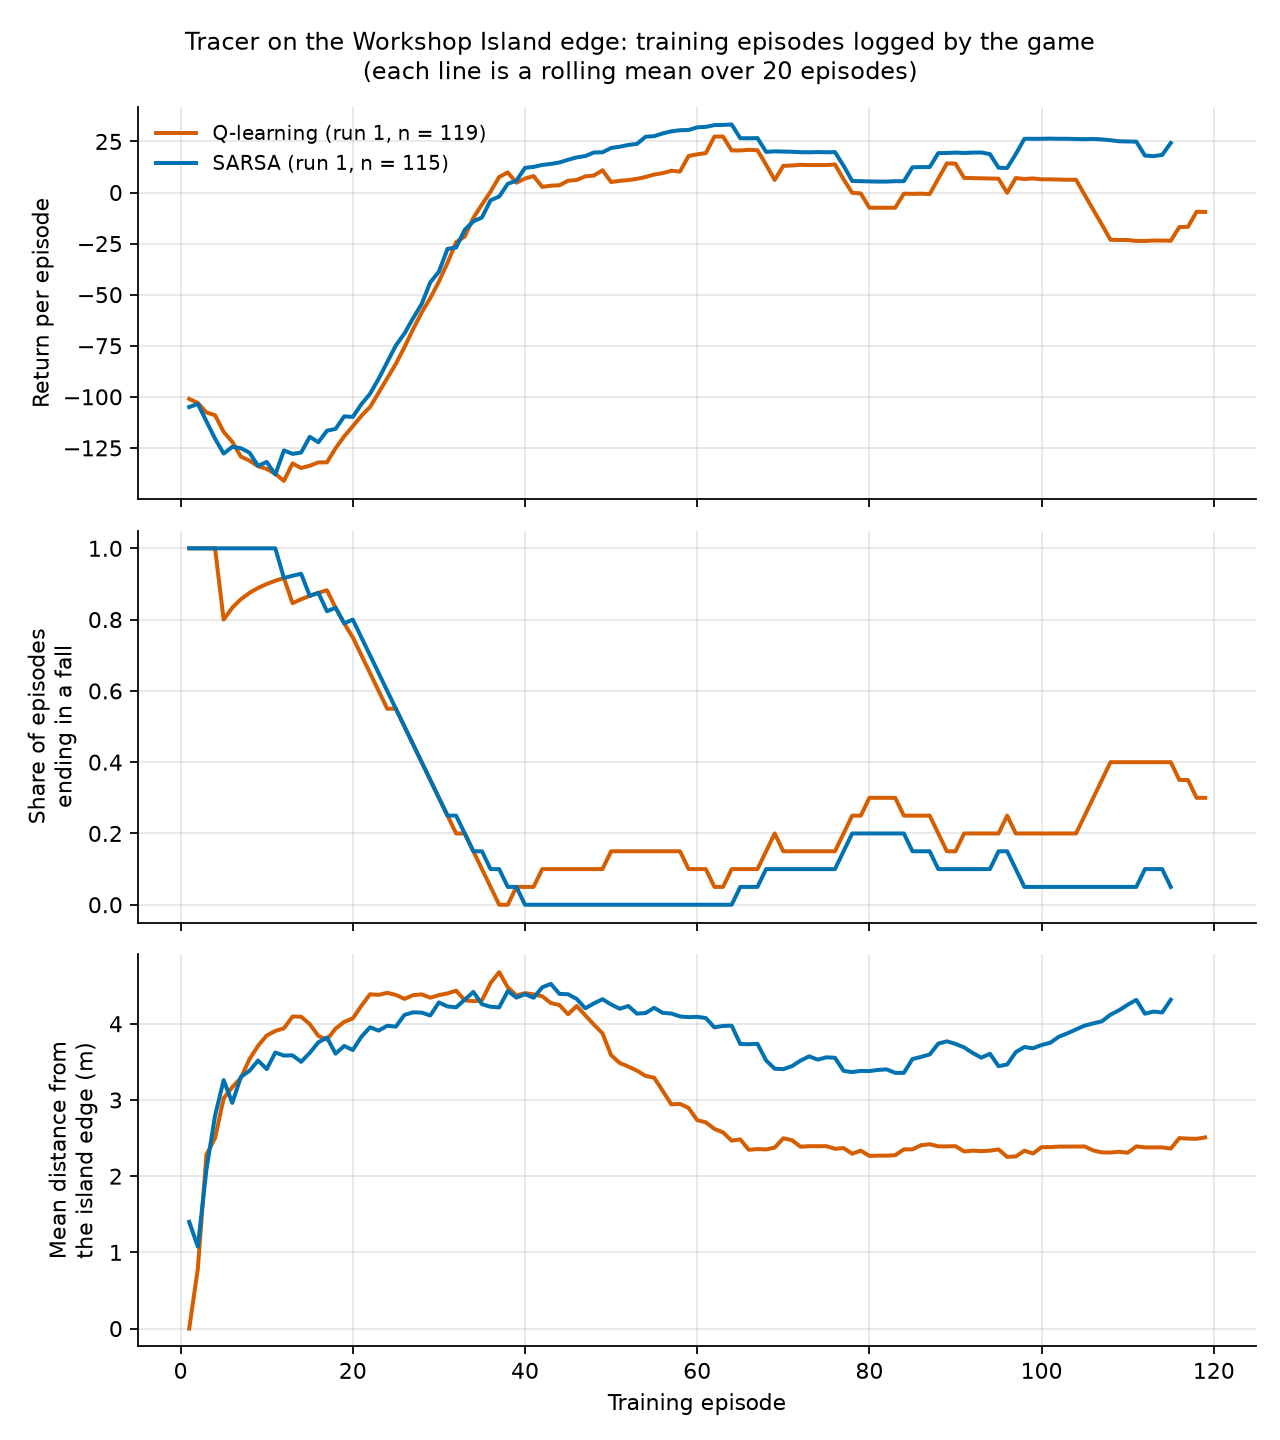
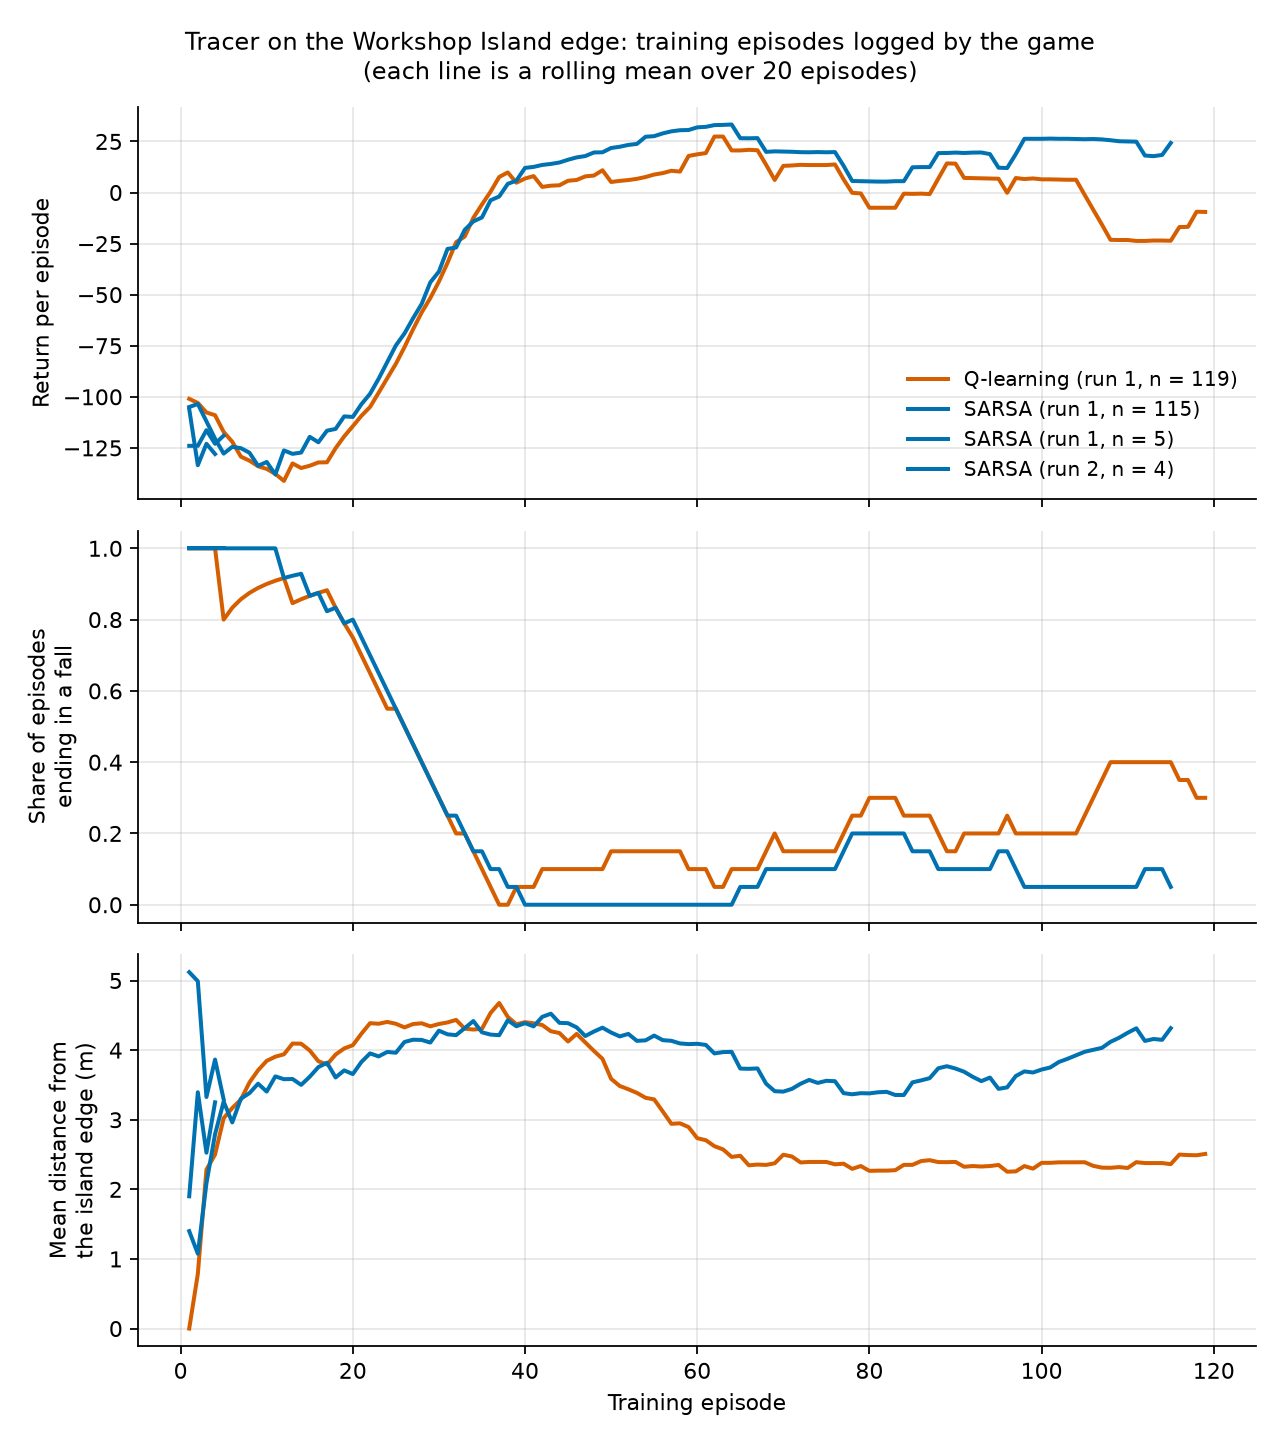
Verify the standard build in the game; record it
The shipped build was pasted into a fresh lobby and run with no setting
touched (log in data/logs). A new run was seen to start in training.

diff --git a/docs/verification.md b/docs/verification.md
@@ -1,7 +1,7 @@
 # Verification record
 
 What has been checked, how, and what has not. Session: 2026-11-21, Overwatch 2.25.1.0 (Steam,
-Windows), OverPy 9.7.21. Five matches in one private lobby, about 57 minutes of match time in total.
+Windows), OverPy 9.7.21. Six matches in private lobbies, about 58 minutes of match time in total.
 Their log files are in `data/logs/`, and the screenshots in `docs/img/` are from the same session.
 
 A compile proves the text is well-formed Workshop code. It says nothing about behaviour in the
@@ -11,17 +11,19 @@ game. Every line under "Run in Overwatch" was seen in the game or read from a lo
 
 | Claim | Evidence |
 |---|---|
-| The compiled text imports | The five test builds (`workshop/compiled/variant-*.txt`) were each pasted with the Settings paste button; mode name and Workshop Island appeared in the Summary each time. The standard build was not pasted: see the next section |
+| The compiled text imports | All six builds in `workshop/compiled/` were pasted with the Settings paste button; mode name and Workshop Island appeared in the Summary each time |
+| The standard build runs as shipped | `2026-11-21_standard_build_smoke.txt`: pasted into a fresh lobby and started with no setting touched. Menu showed Experiment = Cliff walk and Algorithm = SARSA; HUD read `CLIFF WALK / SARSA`, `TRAINING`, `READY`; episodes ran; no per-step lines were logged, as its default says |
+| A new run always starts in training | Same log: Reload (evaluation), then hold Ultimate: `RUN` 2 follows and its episodes are training episodes |
 | Skirmish on Workshop Island starts and the rules run | Every match reached `STATUS: READY` in about 6 s |
-| The island is measured by ray casts | `CAL` line identical in all five logs: x -20 to 20, z -20 to 20, floor 0 |
+| The island is measured by ray casts | `CAL` line identical in all six logs: x -20 to 20, z -20 to 20, floor 0 |
 | Tracer and Widowmaker spawn as bots | Visible in every match; scoreboard shows both |
-| Tracer moves under throttle control, at a measured speed | 5.98 m/s, coast 0.25 m, in all five logs |
+| Tracer moves under throttle control, at a measured speed | 5.98 m/s, coast 0.25 m, in all six logs |
 | Scripted patrol (Milestone 1) | `2026-11-21_demo_patrol.txt`: 20 laps, each 17 steps along the planned cells, each ending on the goal, return 33 |
-| Episode reset puts Tracer back on the start cell | 313 completed episodes across the logs; every one starts in state 0 |
-| A step off the edge is a real fall and is scored | 78 episodes ended `FELL`; first one at match time 0:08 of the SARSA run |
-| The step limit ends an episode | 1 training timeout (Q-learning, episode 5), 3 evaluation timeouts (SARSA) |
+| Episode reset puts Tracer back on the start cell | 323 completed episodes across the six logs; in the five logs with per-step lines, every episode's first step starts in state 0 |
+| A step off the edge is a real fall and is scored | 87 episodes ended `FELL`; first one at match time 0:08 of the SARSA run |
+| The step limit ends an episode | 1 training timeout (Q-learning, episode 5), 4 evaluation timeouts (3 in the SARSA run, 1 in the standard-build run) |
 | The match clock stays frozen | Hero select showed 30:00 after a restart; HUD showed 29:59 for 26 minutes |
-| The learning updates are computed correctly | Replay of 6,978 logged steps: all 6,085 updates (3,117 SARSA, 2,968 Q-learning) match the reference within the log's 0.01 rounding; all 313 episode returns re-add |
+| The learning updates are computed correctly | Replay of 6,978 logged steps: all 6,085 updates (3,117 SARSA, 2,968 Q-learning) match the reference within the log's 0.01 rounding; the returns of all 313 episodes in those five logs re-add |
 | Exploration happens at the set rate | 611 exploratory draws in 6,085 training steps: 10.0 % at epsilon 0.1 |
 | The policy arrows, HUD and counters display | `docs/img/` screenshots |
 | The Q-table is logged every 50 episodes | 94 `Q` lines in each long run (episodes 50 and 100) |
@@ -56,13 +58,8 @@ the runs before believing the size of it.
 
 ## Compiled and unit-tested only
 
-- **The standard build, `workshop/compiled/overwatch-rl-lab.txt`, was never pasted into the game.**
-  It is the same source as the five builds that were, with three differences: per-step logging
-  defaults to Off, and the Experiment and Algorithm choices are menu entries instead of being fixed.
-  Those two menu entries are the same kind of setting as "Start mode", which was seen working. The
-  desktop was in use before this last check could be run.
-- The last code change of the session (a new run always starts in training) was imported with the
-  Widowmaker and Blink builds, but no new run was started in those matches, so that line never ran.
+- Changing the Experiment or Algorithm from the menu. Both entries were seen with the right
+  defaults; the other choices were exercised only through the test builds, which fix them in code.
 - The epsilon controls on Crouch + Primary / Secondary Fire. The rules compile; no key combination
   was sent in the game.
 - "Start paused", "Initial Q-value" other than 0, "Game speed percent" below 100, Tracer move speed
